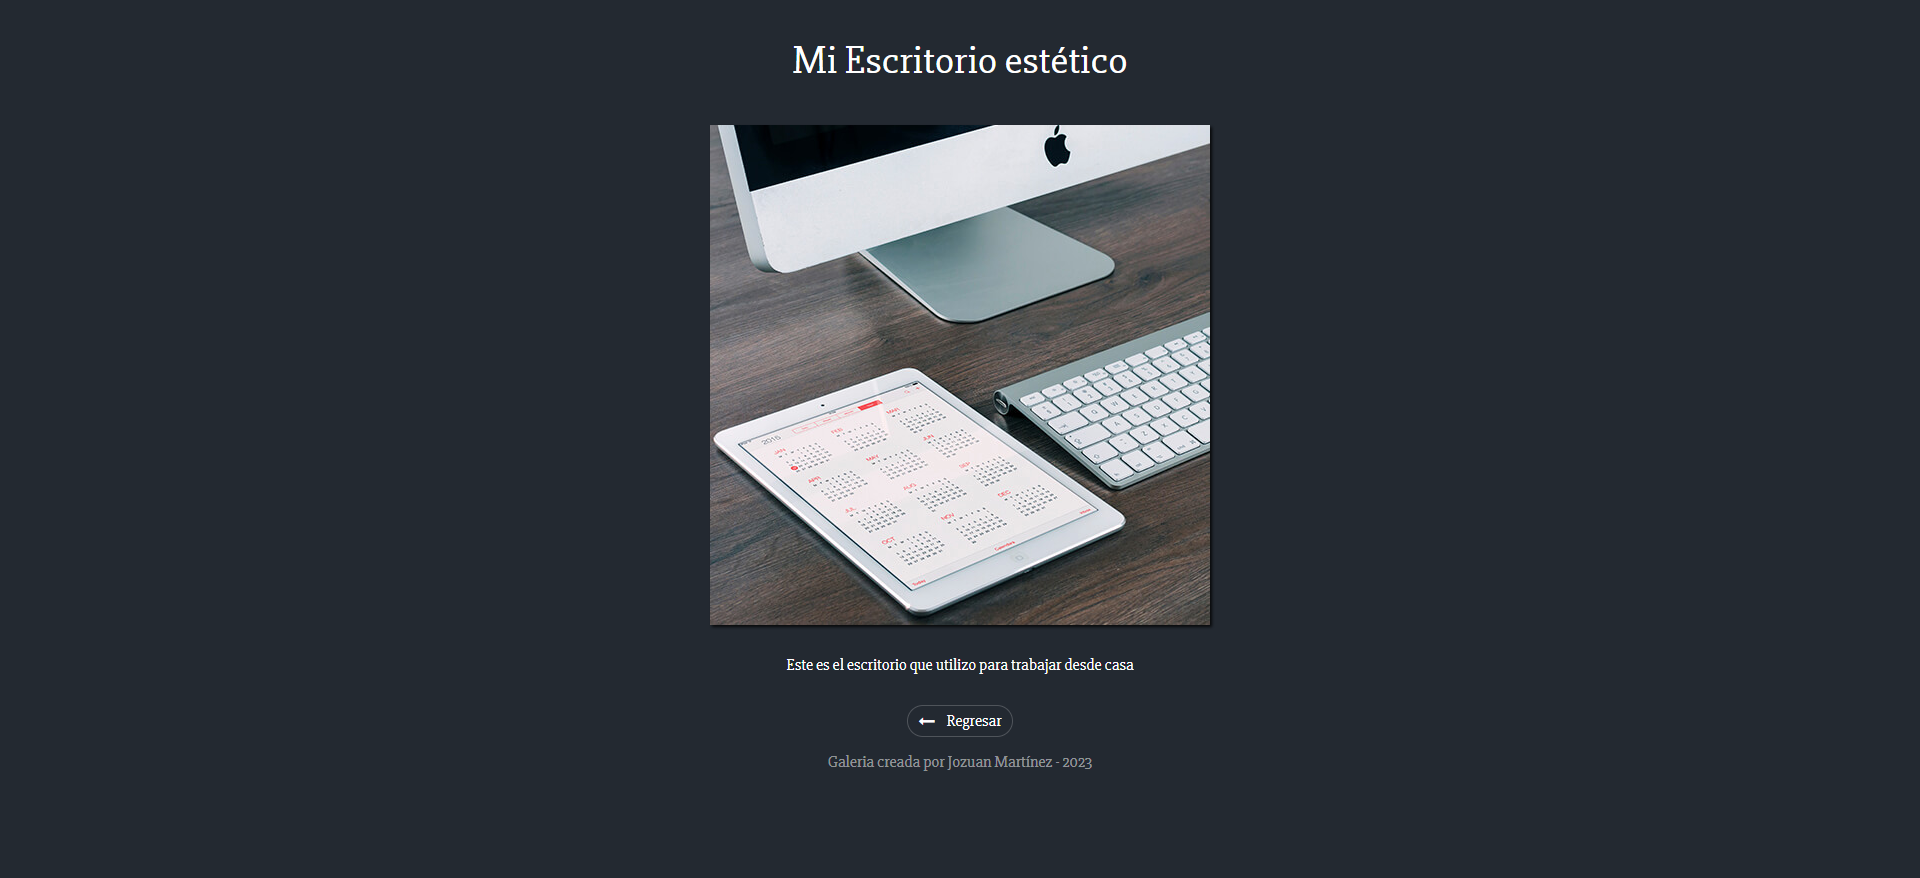
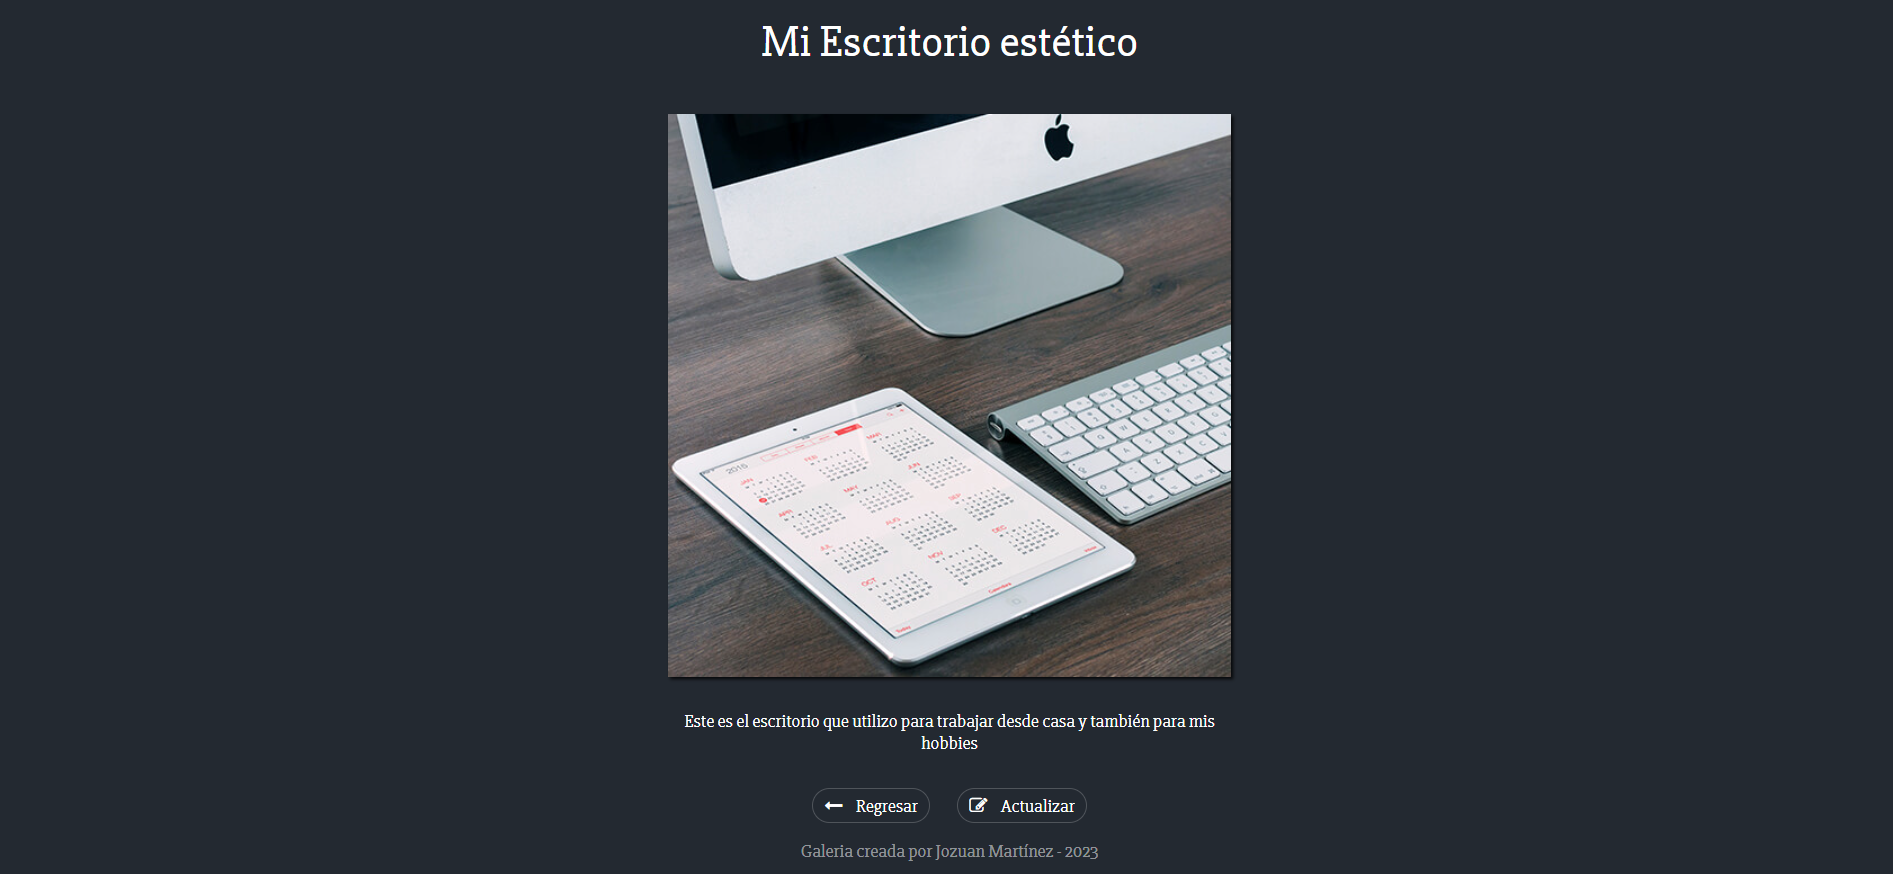
Updates the screenshots section of the README file

diff --git a/README.md b/README.md
@@ -45,3 +45,6 @@ Details Page
 
 Upload Page
 ![Upload Page](public/images/upload-page.png)
+
+Update Page
+![Update Page](public/images/update-page.png)
